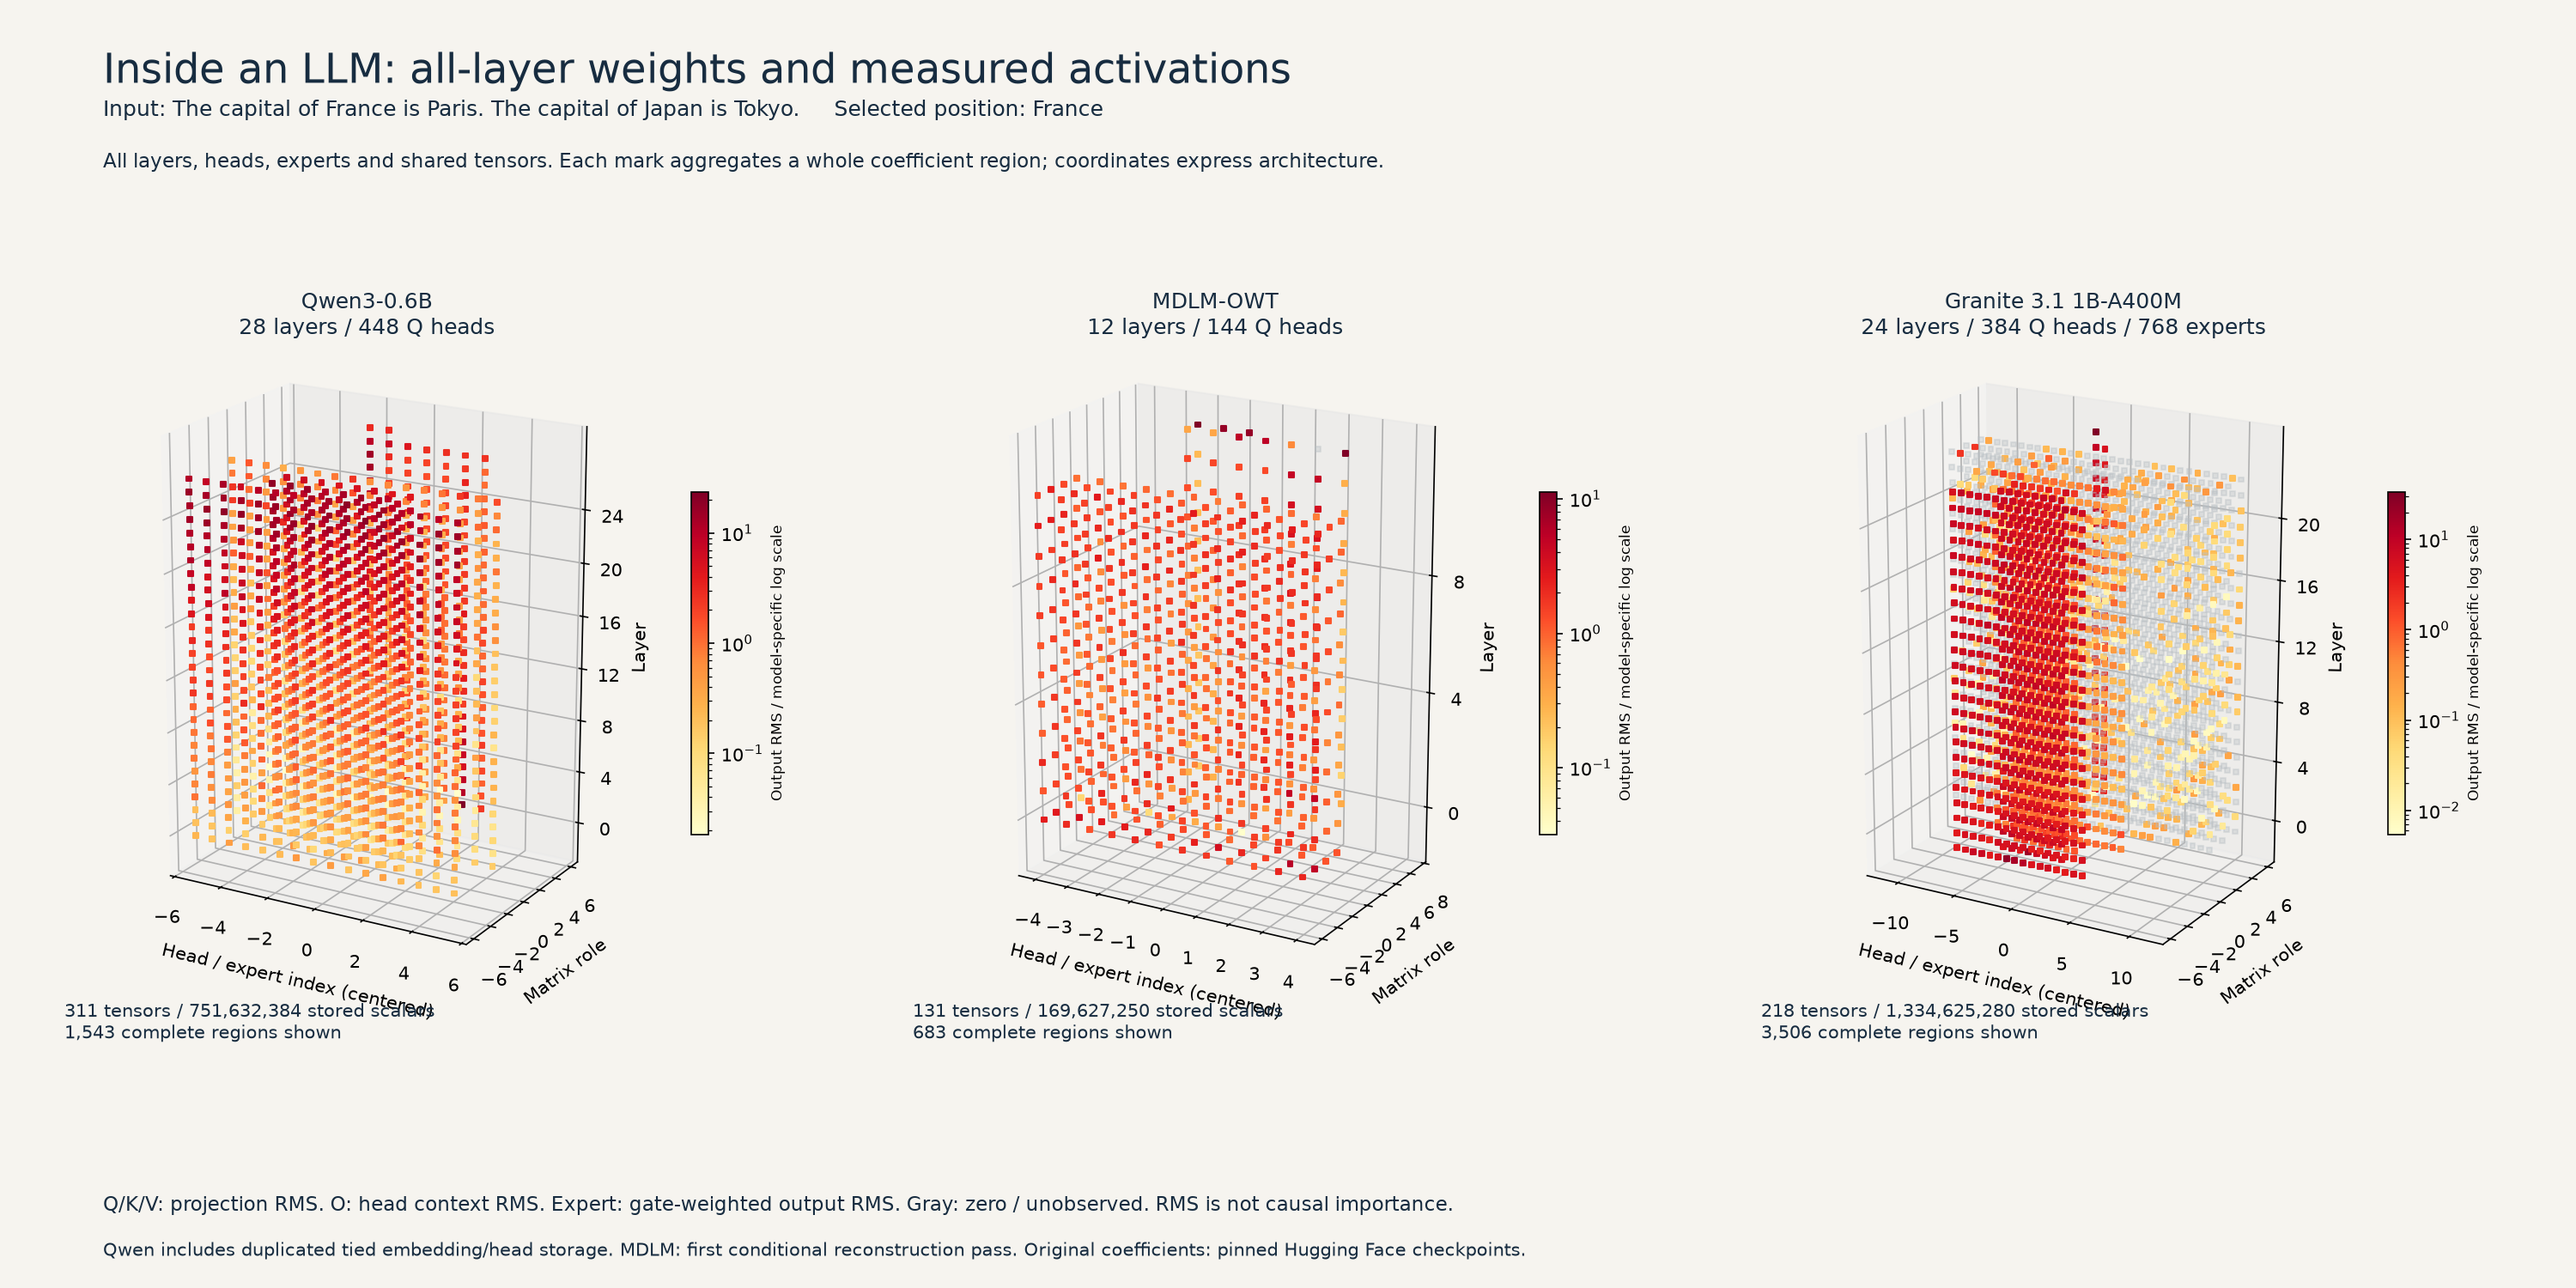
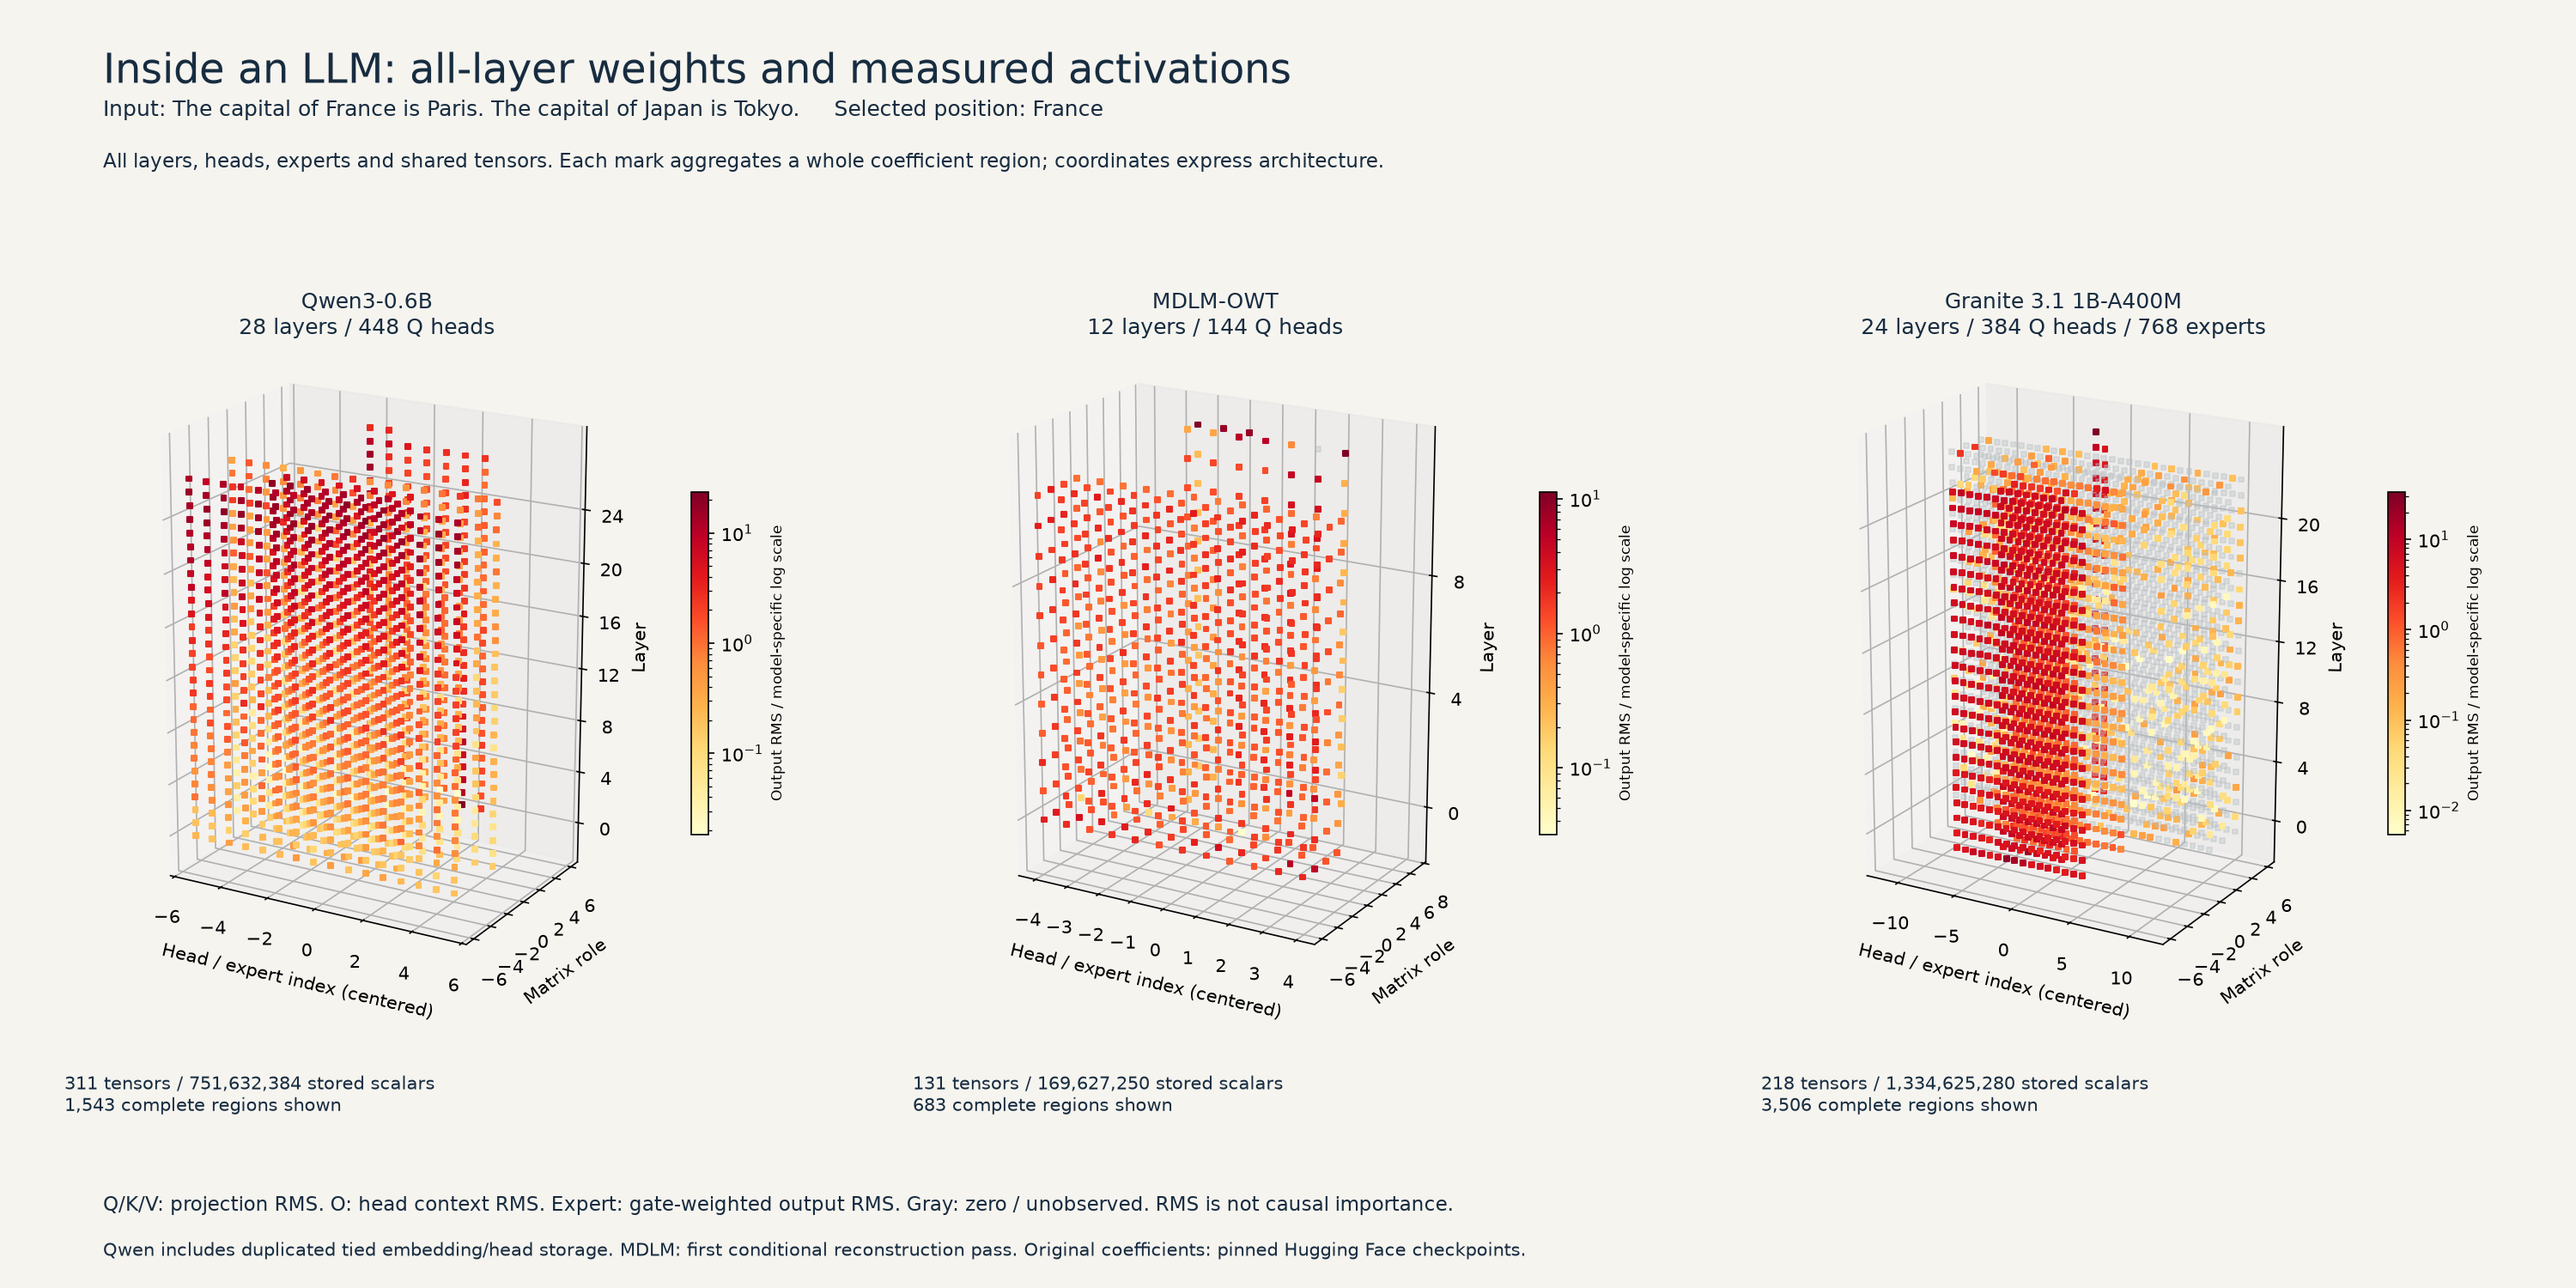
fix(JUN-853): separate cover statistics from 3D axis labels

Changed region(s): [[0.682, 0.7667, 0.837, 0.8587], [0.341, 0.7667, 0.496, 0.8587], [0.031, 0.7667, 0.155, 0.8587]]

diff --git a/scripts/render-llm-learning-figures.py b/scripts/render-llm-learning-figures.py
@@ -47,7 +47,7 @@ for col,(tag,title) in enumerate(cases):
     ax.set_xlabel('Head / expert index (centered)');ax.set_ylabel('Matrix role');ax.set_zlabel('Layer');ax.set_zticks(np.arange(0,w['layers'],4))
     ax.set_title(f"{title}\n{w['layers']} layers / {w['layers']*w['heads']} Q heads"+(f" / {w['layers']*w['experts']} experts" if w['experts'] else ''),fontsize=12,pad=15)
     cb=fig.colorbar(cm.ScalarMappable(norm=norm,cmap='YlOrRd'),ax=ax,shrink=.45,pad=.03);cb.set_label('Output RMS / model-specific log scale',fontsize=8)
-    ax.text2D(0,-.12,f"{w['tensor_count']} tensors / {w['stored_coefficients']:,} stored scalars\n{len(w['nodes']):,} complete regions shown",transform=ax.transAxes,fontsize=10)
+    ax.text2D(0,-.24,f"{w['tensor_count']} tensors / {w['stored_coefficients']:,} stored scalars\n{len(w['nodes']):,} complete regions shown",transform=ax.transAxes,fontsize=10)
 fig.subplots_adjust(left=.025,right=.97,top=.78,bottom=.19,wspace=.15)
 fig.text(.04,.06,'Q/K/V: projection RMS. O: head context RMS. Expert: gate-weighted output RMS. Gray: zero / unobserved. RMS is not causal importance.',fontsize=11)
 fig.text(.04,.025,'Qwen includes duplicated tied embedding/head storage. MDLM: first conditional reconstruction pass. Original coefficients: pinned Hugging Face checkpoints.',fontsize=10)
